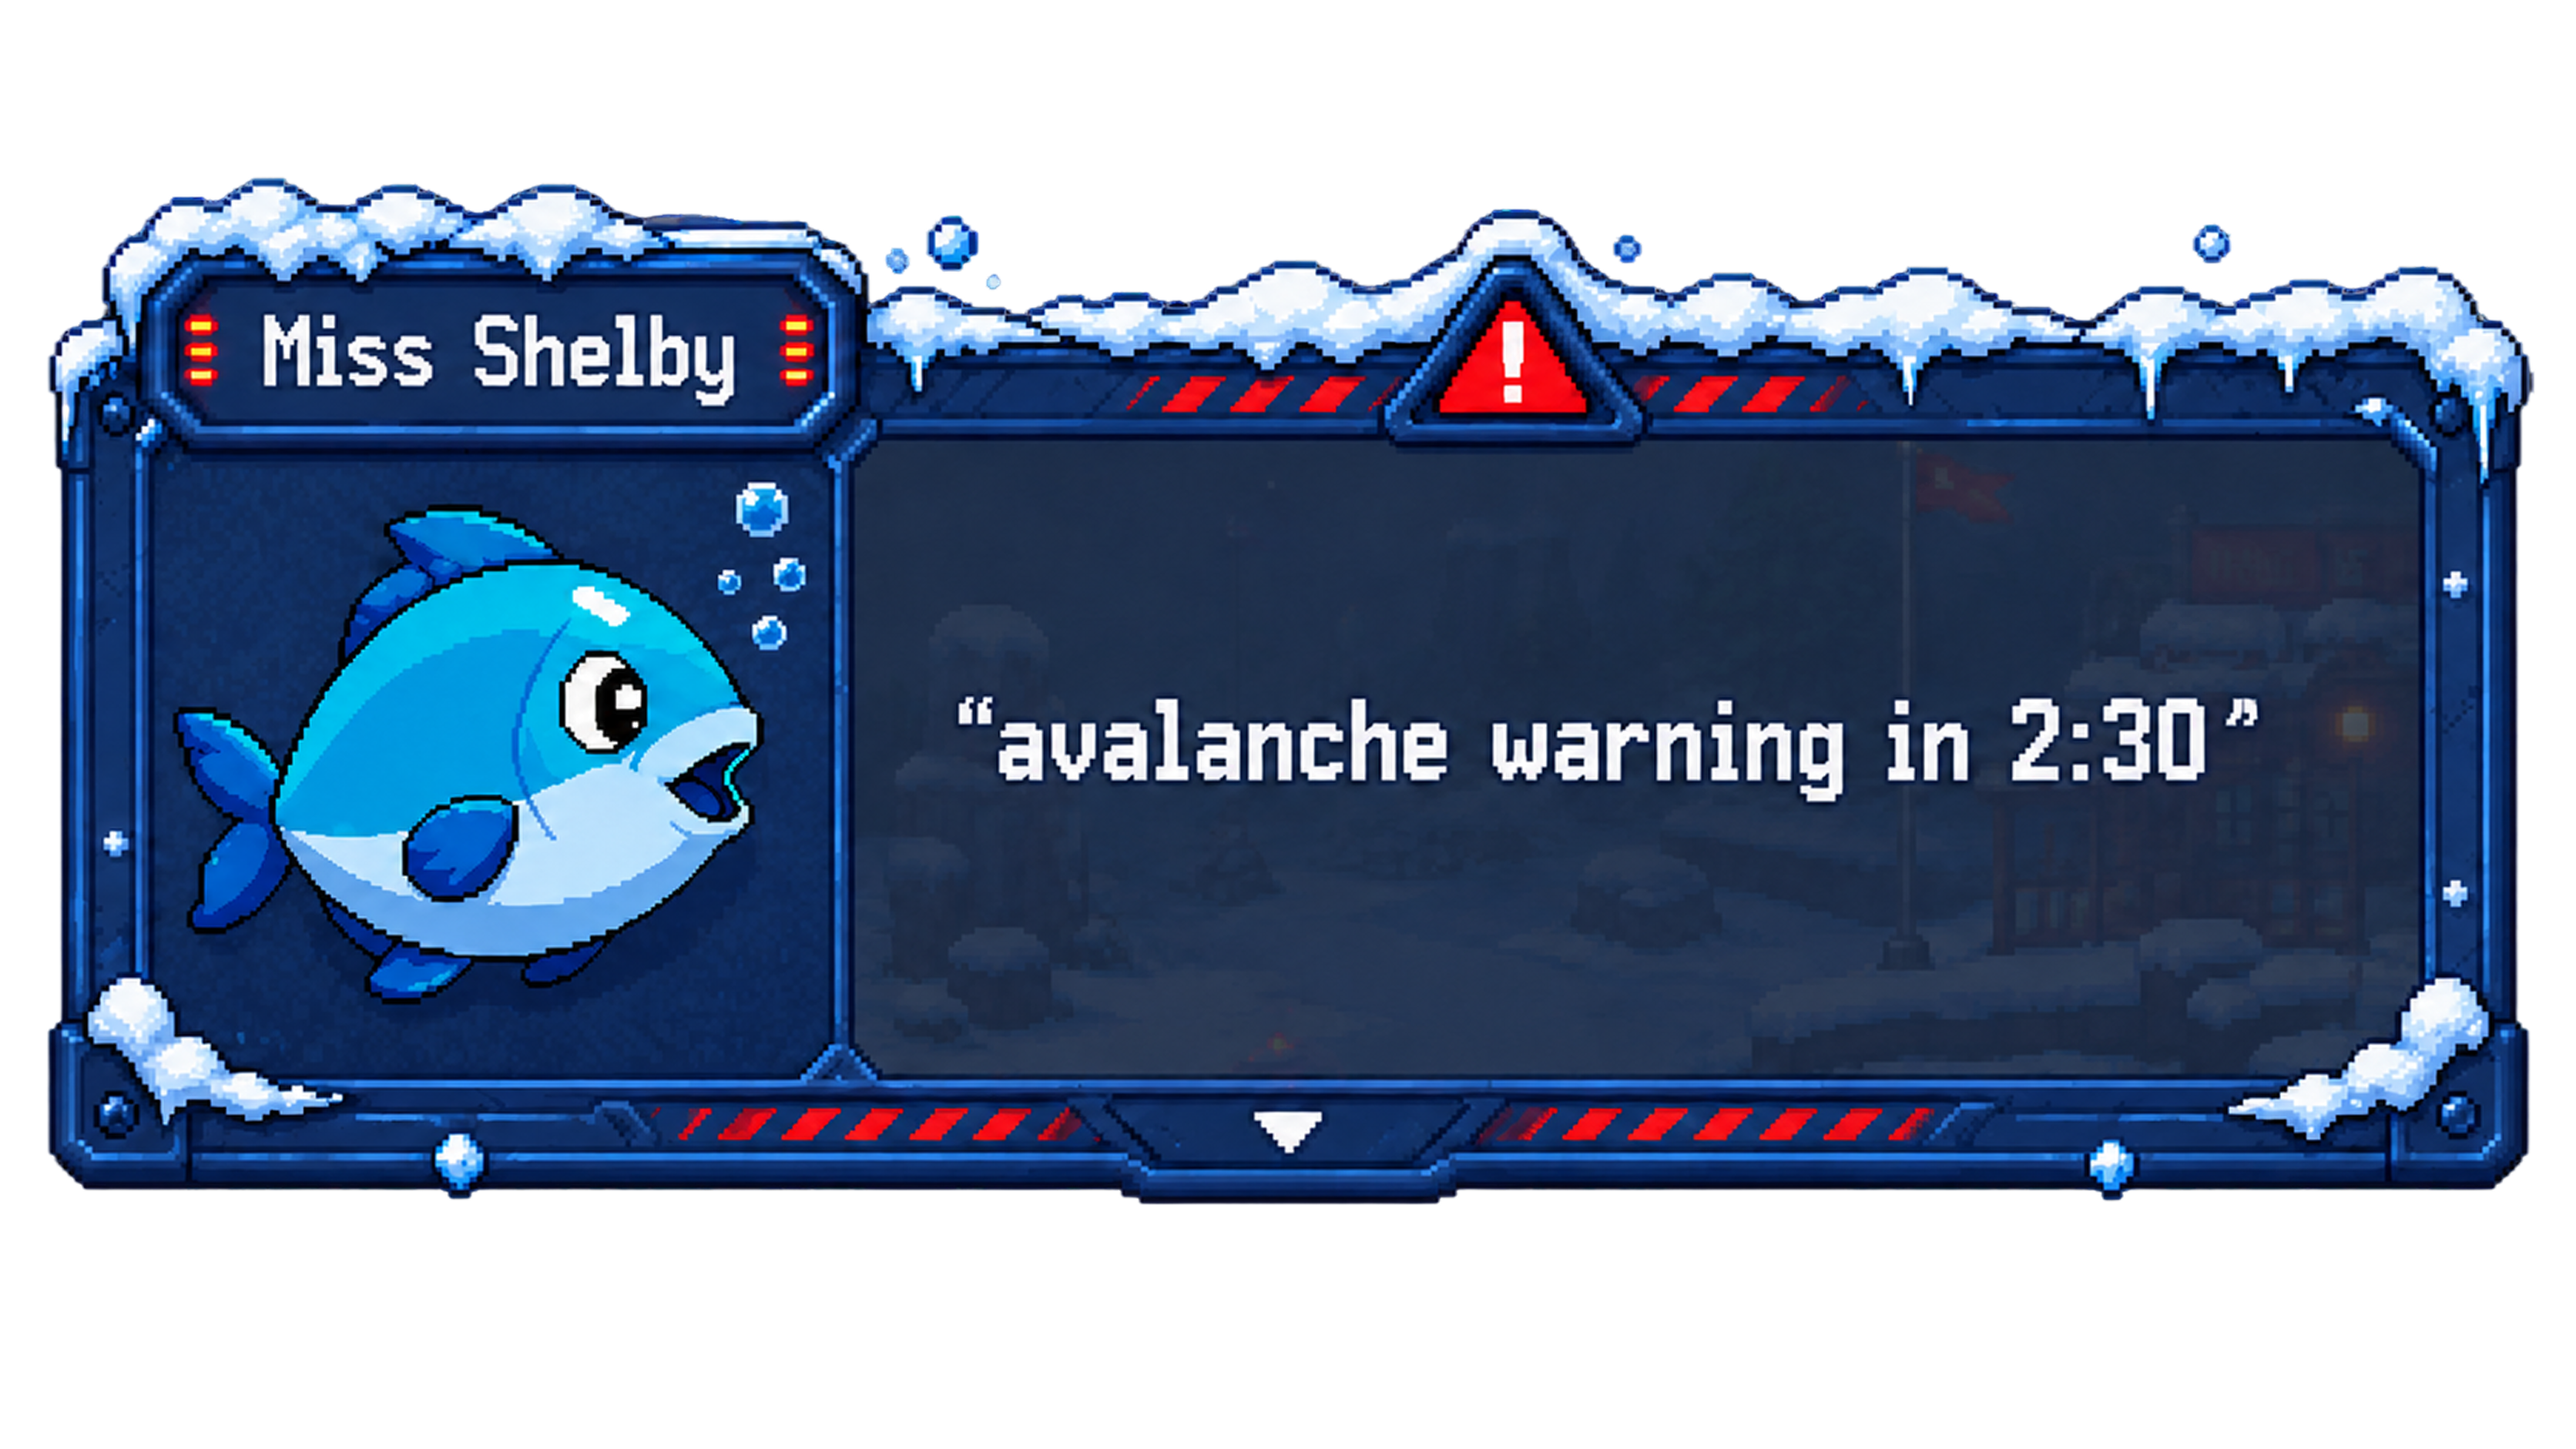
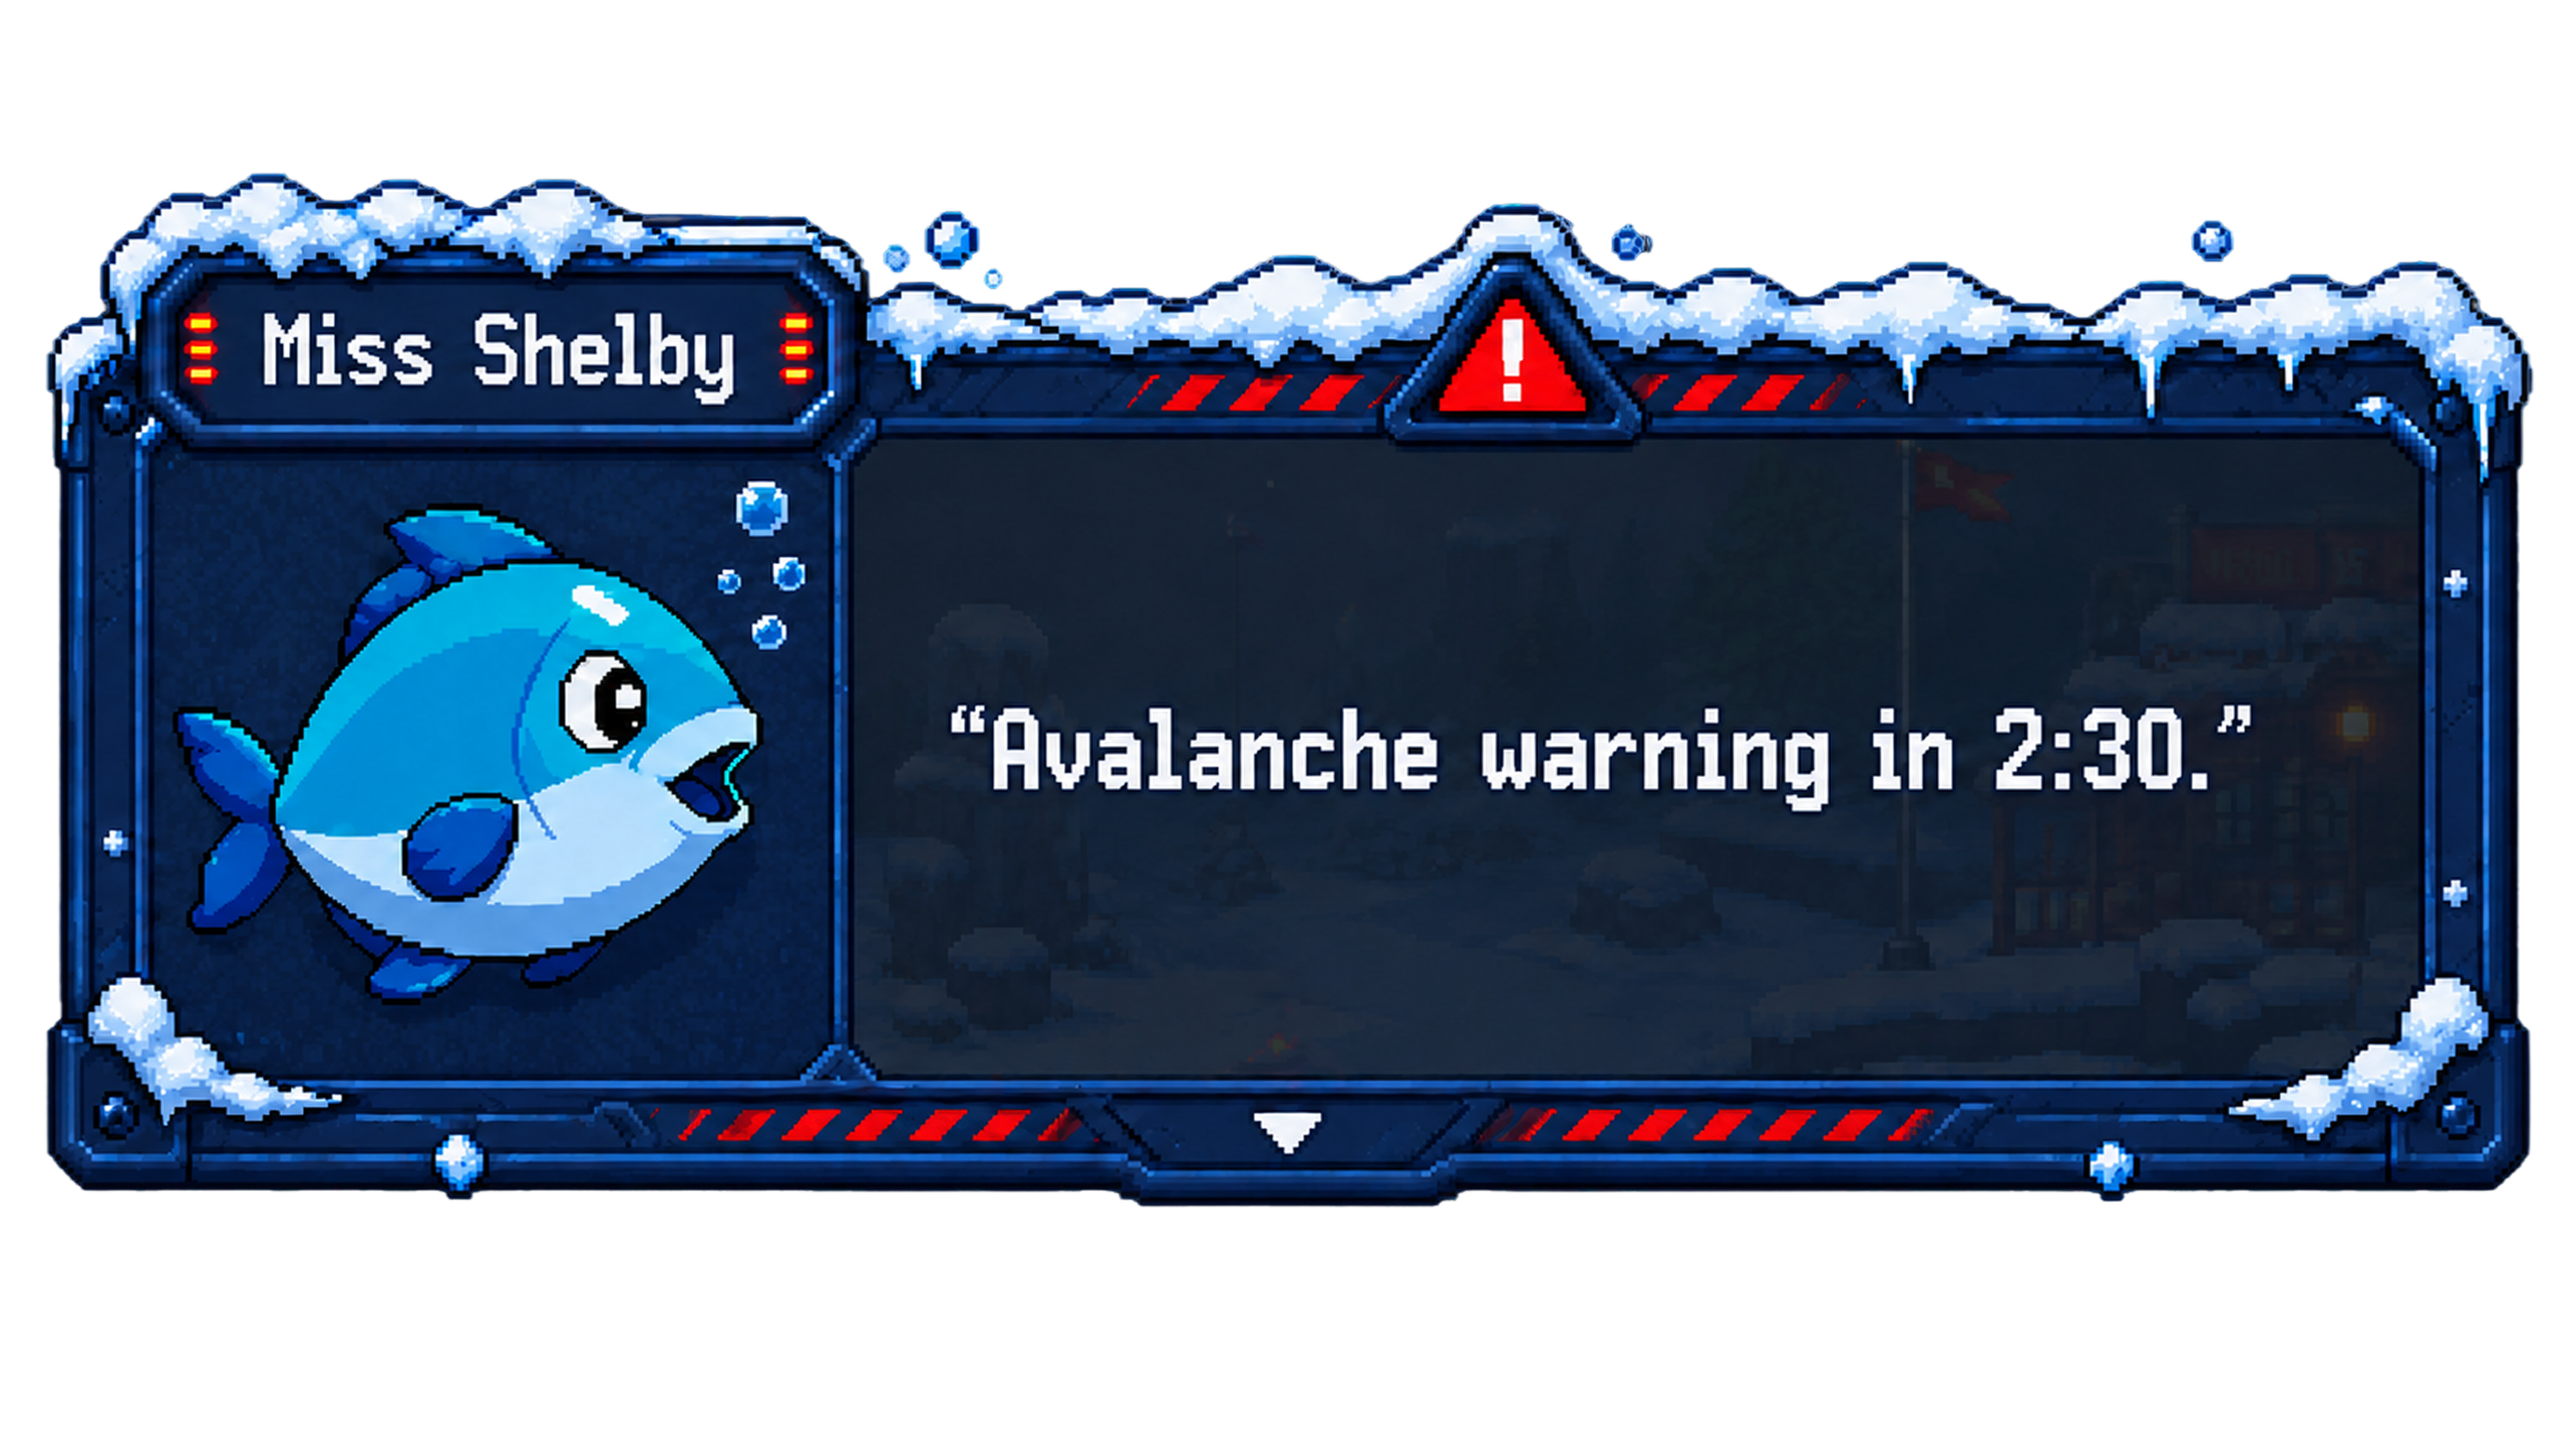
added the stop sign

diff --git a/level_3.js b/level_3.js
@@ -19,9 +19,17 @@ let goatCard;
 let level3CardActive = false;
 let level3CardStep = 0;
 
+let stopSignTimer = 0;
+const STOPSIGN_RISE_FRAMES = 20;  // rises up + fades in
+const STOPSIGN_HOLD_FRAMES = 90;  // stays fully visible (~1.5s)
+const STOPSIGN_FADE_FRAMES = 30;  // fades out
+const STOPSIGN_TOTAL_FRAMES =
+  STOPSIGN_RISE_FRAMES + STOPSIGN_HOLD_FRAMES + STOPSIGN_FADE_FRAMES;
+
 function preloadLevel3Assets() {
   avalancheCard3 = loadImage("assets/images/avalanche_card3.png");
   goatCard = loadImage("assets/images/goat_card.png");
+  stopSignCard = loadImage("assets/images/stopsign_card.png");
 }
 
 // Actually starts the goat run, using whatever direction/position
@@ -43,6 +51,7 @@ function activateGoatRun() {
 function startLevel3Intro() {
   level3CardActive = true;
   level3CardStep = 0;
+  stopSignTimer = 0;
   gameState = "level3_card";
 }
 
@@ -50,16 +59,16 @@ function startLevel3Intro() {
 function handleLevel3CardKeyPressed() {
   if (gameState !== "level3_card" || keyCode !== ENTER) return false;
 
+  // Once the stop sign card starts, it dismisses itself — ignore input.
+  if (level3CardStep >= 2) return true;
+
   level3CardStep++;
 
-  if (level3CardStep >= 2) {
-    // both cards have been dismissed — start gameplay
-    level3CardActive = false;
-    gameState = "playing";
-    cursor(ARROW);
-  } else {
-    playCardSwitchSound(); // same sound used when tutorial/level2 cards advance
+  if (level3CardStep === 2) {
+    stopSignTimer = 0; // start the auto-dismiss animation
   }
+
+  playCardSwitchSound();
 
   return true;
 }
@@ -67,26 +76,75 @@ function handleLevel3CardKeyPressed() {
 function handleLevel3CardMousePressed() {
   if (gameState !== "level3_card") return false;
 
+  // Once the stop sign card starts, it dismisses itself — ignore input.
+  if (level3CardStep >= 2) return true;
+
   level3CardStep++;
 
-  if (level3CardStep >= 2) {
-    level3CardActive = false;
-    gameState = "playing";
-    cursor(ARROW);
-  } else {
-    playCardSwitchSound();
+  if (level3CardStep === 2) {
+    stopSignTimer = 0; // start the auto-dismiss animation
   }
+
+  playCardSwitchSound();
 
   return true;
 }
 
+// Draws the card — reuses drawDialogueCard() already defined in tutorial_cards.js
 // Draws the card — reuses drawDialogueCard() already defined in tutorial_cards.js
 function drawLevel3CardOverlay() {
   if (level3CardStep === 0) {
     drawDialogueCard(avalancheCard3);
   } else if (level3CardStep === 1) {
     drawDialogueCard(goatCard);
+  } else if (level3CardStep === 2) {
+    drawStopSignCard();
   }
+}
+
+// Auto-plays: rises up + fades in, holds, then fades out on its own —
+// no ENTER/click needed. Ends the level3 intro sequence when finished.
+function drawStopSignCard() {
+  stopSignTimer++;
+
+  let alpha = 255;
+  let riseOffset = 0;
+
+  if (stopSignTimer < STOPSIGN_RISE_FRAMES) {
+    // Rising in: fades from 0→255, moves up from +40px to 0
+    let t = stopSignTimer / STOPSIGN_RISE_FRAMES;
+    alpha = map(t, 0, 1, 0, 255);
+    riseOffset = map(t, 0, 1, 40, 0);
+  } else if (stopSignTimer < STOPSIGN_RISE_FRAMES + STOPSIGN_HOLD_FRAMES) {
+    // Fully visible hold
+    alpha = 255;
+    riseOffset = 0;
+  } else if (stopSignTimer < STOPSIGN_TOTAL_FRAMES) {
+    // Fading out
+    let fadeElapsed =
+      stopSignTimer - (STOPSIGN_RISE_FRAMES + STOPSIGN_HOLD_FRAMES);
+    let t = fadeElapsed / STOPSIGN_FADE_FRAMES;
+    alpha = map(t, 0, 1, 255, 0);
+    alpha = constrain(alpha, 0, 255);
+  } else {
+    // Animation finished — end the level3 intro sequence
+    level3CardActive = false;
+    gameState = "playing";
+    cursor(ARROW);
+    return;
+  }
+
+  push();
+  imageMode(CENTER);
+
+  const cardH = min(500, height - 200);
+  const cardW = cardH * (stopSignCard.width / stopSignCard.height);
+
+  tint(255, alpha);
+  image(stopSignCard, width / 2, height / 2 + riseOffset, cardW, cardH);
+  noTint();
+
+  pop();
 }
 
 function getLevel3FishStart(WORLD_W_SCALED, WORLD_H_SCALED) {
